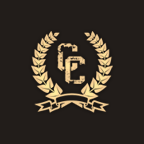
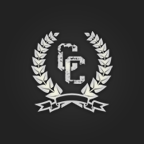
aded new colors

Changed region(s): [[0.1944, 0.1944, 0.7778, 0.7778]]

diff --git a/app/assets/stylesheets/main.css b/app/assets/stylesheets/main.css
@@ -34,7 +34,7 @@ a {
   text-decoration: none;
 }
 body {
-	background: #221d1a;
+	background: #222 url(/assets/bg.png);
   font-family: 'PT Sans Caption', Helvetica, Tahoma, Arial, sans-serif;
 }
 .behind-bg {
@@ -63,9 +63,10 @@ body {
 	background-position: center center;
 }
 header {
+  background: rgba(0, 0, 0, 0.01);
   height: 108px;
   border-bottom: 1px solid #2e261f;
-  box-shadow: 0px 1px 0px #231e1a;
+  box-shadow: 0px 1px 0px #232323;
 }
 .logo-cc {
 	float: left;
